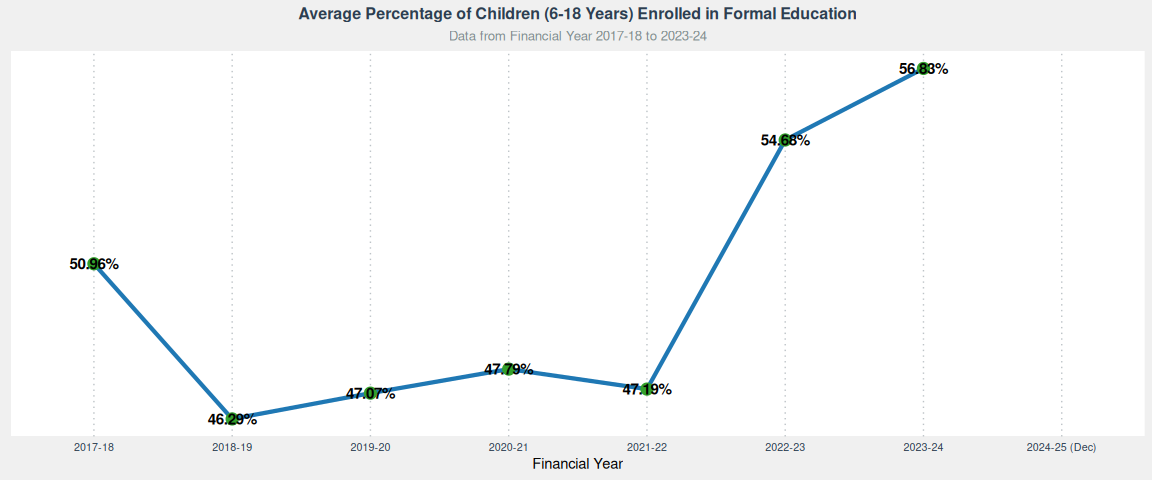
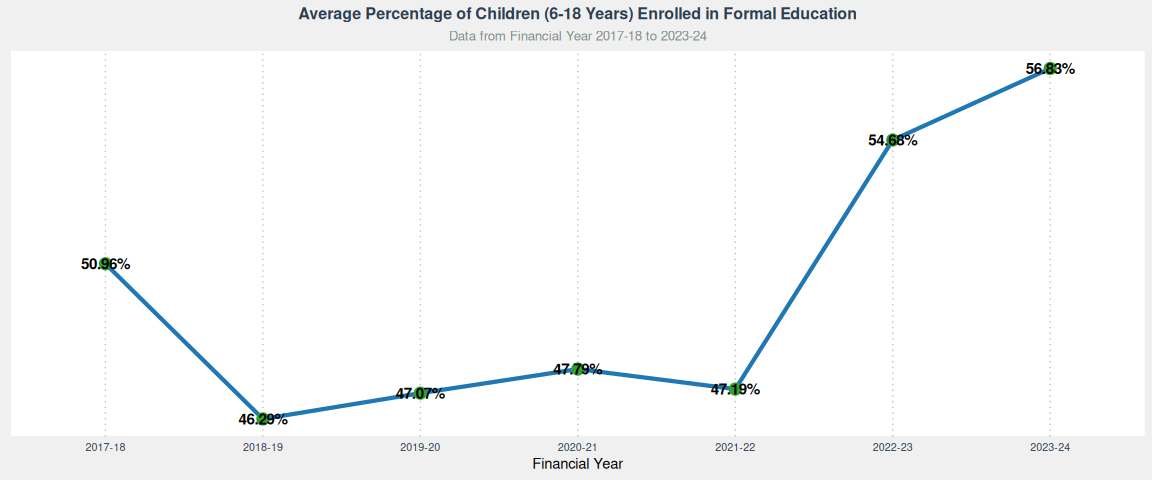
Remove warnings related to missing values from Annual Report Fact Sheet

diff --git a/scripts/AnnualReport_FactSheet.md b/scripts/AnnualReport_FactSheet.md
@@ -26,15 +26,6 @@ education system through NIOS. Children with Special Needs who are
 unable to be enrolled in formal system are getting special education
 through Special Educators engaged at the CCI.
 
-    ## Warning: Removed 1 row containing missing values or values outside the scale range
-    ## (`geom_line()`).
-
-    ## Warning: Removed 1 row containing missing values or values outside the scale range
-    ## (`geom_point()`).
-
-    ## Warning: Removed 1 row containing missing values or values outside the scale range
-    ## (`geom_text()`).
-
 ![](AnnualReport_FactSheet_files/figure-gfm/unnamed-chunk-4-1.png)<!-- -->
 
 During pandemic hit years, Vocational Training Programs were vastly
